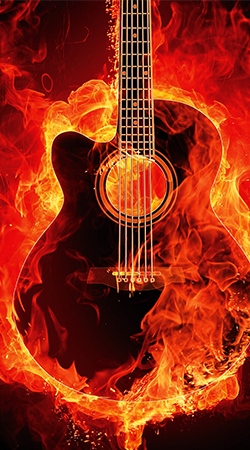
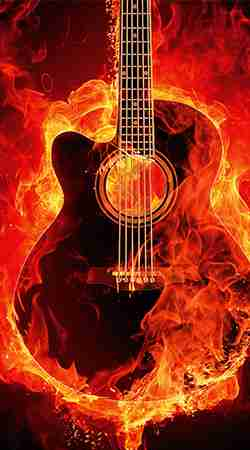
added events

diff --git a/templates/webapp/events.html b/templates/webapp/events.html
@@ -26,7 +26,7 @@
     <div class="container events-box">
         <div class="row">
             <div class="col-xs-2 down-parallelogram" id="pr1" >
-                <img class="img-display" src="{% static 'img/events/culti.png' %}" alt="technical" >
+                <img class="img-display" src="{% static 'img/events/culti.jpg' %}" alt="technical" >
                 <div class="img-overlay" id="cultimg">
                     <div class="text">Cultural</div>
                 </div>
@@ -44,7 +44,7 @@
                 </div>
             </div>
             <div class="col-xs-2 col-xs-2-mod up-parallelogram" id="pr4">
-                <img class="img-display" src="{% static 'img/events/litr.png' %}" alt="technical">
+                <img class="img-display" src="{% static 'img/events/litr.jpg' %}" alt="technical">
                 <div class="img-overlay" id="#litr-btn">
                     <div class="text">Litr</div>
                 </div>
@@ -267,7 +267,7 @@
 <script>
     $('#pr1').mouseenter( function(){ 
         $('#pr1').fadeIn(function(){
-            $('.stretch').attr("src","{% static 'img/events/culti_bg.png' %}");
+            $('.stretch').attr("src","{% static 'img/events/culti_bg.jpg' %}");
             $('#background').fadeIn();
             $('#pr2').css("opacity",0.01);
             $('#pr3').css("opacity",0.01);
@@ -329,7 +329,7 @@
     });
     $('#pr4').mouseenter( function(){ 
         $('#pr4').fadeIn(function(){
-            $('.stretch').attr("src","{% static 'img/events/litr_bg.png' %}");
+            $('.stretch').attr("src","{% static 'img/events/litr_bg.jpg' %}");
             $('#pr1').css("opacity",0.01);
             $('#pr2').css("opacity",0.01);
             $('#pr3').css("opacity",0.01);
